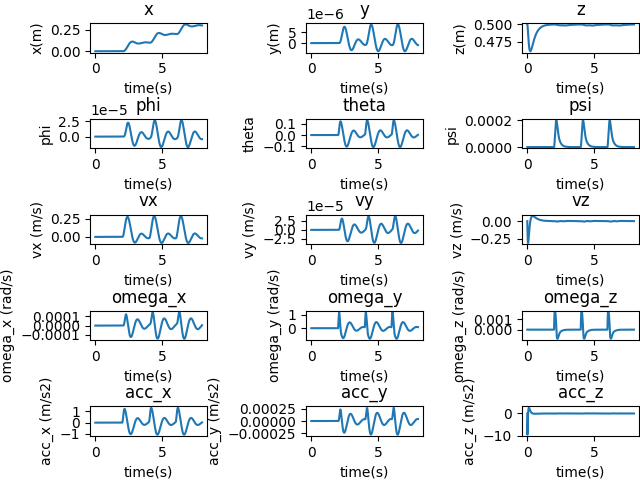
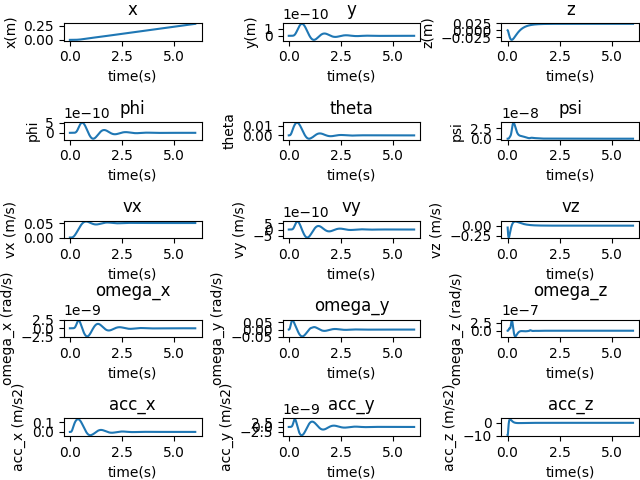
cleanup required

diff --git a/main_q.py b/main_q.py
@@ -16,8 +16,9 @@ def execute(params : dict, stateManager : StateManager = None):
 
     actual_desired_state_matrix = []
     actual_state_matrix = []
-
-    drone = Drone(params)
+    initState = np.zeros((16,))
+    # initState[2] = 0.5
+    drone = Drone(params, initState =initState)
     controller = Controller(params)
 
     i = 0
@@ -26,14 +27,13 @@ def execute(params : dict, stateManager : StateManager = None):
     times = []
 
     stateManager.setNextState(t, drone.state)
+    
 
     while not stateManager.isComplete():
 
         i += 1
         t += dt
         
-
-
         desired_state_dic = stateManager.getDesiredState(t, drone.state)
 
         if stateManager.isComplete():
@@ -46,6 +46,10 @@ def execute(params : dict, stateManager : StateManager = None):
             "omega":drone.state[9:12].squeeze(),
             "rpm":drone.state[12:16].squeeze()
         }
+
+        # print(current_state_dic)
+        # if i == 2:
+        #     exit()
         
 
         F_desired, desired_state_dic['acc'] = controller.position_controller(current_state_dic, desired_state_dic)
@@ -53,12 +57,12 @@ def execute(params : dict, stateManager : StateManager = None):
 
         M_desired = controller.attitude_controller(current_state_dic,desired_state_dic)
         # print(M_desired)
-        sol = drone.step(F_desired,M_desired, current_state_dic)
+        sol = drone.step(F_desired, M_desired)
 
         # we need to set the accelerations ourselves because we are setting our snap to be zero.
         # use first order approximations
 
-        state_list = sol.y[:,-1]
+        state_list = sol.y[:,-1].copy()
         acc = (sol.y[3:6,-1]-sol.y[3:6,-2])/(sol.t[-1]-sol.t[-2])
 
         state_list[12:15] = acc
@@ -70,18 +74,18 @@ def execute(params : dict, stateManager : StateManager = None):
         temp[6:9] = desired_state_dic["rot"].reshape(-1, 1)
         temp[9:12] = desired_state_dic["omega"].reshape(-1, 1)
         temp[12:15] = desired_state_dic["acc"].reshape(-1, 1)
+        
         actual_desired_state_matrix.append(temp.copy())
 
         times.append(t)
 
-        if stateManager.state != State.TAKEOFF:
-            break
+        # if stateManager.state != State.TAKEOFF:
+        #     break
 
-        
+    print("Statemanager isComplete", stateManager.isComplete())
         
     actual_desired_state_matrix = np.array(actual_desired_state_matrix).T.squeeze()
     actual_state_matrix = np.array(actual_state_matrix).T.squeeze()
-    print(actual_state_matrix.shape, actual_desired_state_matrix.shape)
     time_vec = np.array(times)
     return actual_state_matrix, actual_desired_state_matrix, time_vec
 

diff --git a/stateManager.py b/stateManager.py
@@ -3,7 +3,7 @@ from utils import State
 
 from traj import TrajectoryGenerator
 
-
+import numpy as np
 
 
 class StateManager():
@@ -16,7 +16,7 @@ class StateManager():
         self.planner : TrajectoryGenerator = TrajectoryGenerator(params)
 
     def isComplete(self):
-        if self.state == State.COMPLETE or self.planner.complete:
+        if self.state == State.COMPLETE:
             self.state = State.COMPLETE
             return True
         return False
@@ -24,43 +24,37 @@ class StateManager():
 
     def setNextState(self, t, curstatevec):
 
-        self.prevstate = self.state
+        
+        if self.question  == 1:
+            if self.state == State.IDLE:
+                self.state = State.HOVER1
+            elif self.state == State.HOVER1:
+                self.state = State.COMPLETE
+
         if self.question in [2, 3]:
-            if self.state == State.IDLE and self.prevstate == State.IDLE:
+            if self.state == State.IDLE:
                 self.state = State.TRACK
             elif self.state == State.TRACK:
                 self.state = State.COMPLETE
 
-            return
-
-         
         if self.question in [4]:
-            
+            self.prevstate = self.state
+            self.state = State((self.state.value + 1) % 7)
 
-            if(self.state == State.IDLE):
-                self.state = State.TAKEOFF
-            elif self.state == State.TAKEOFF:
-                self.state = State.HOVER
-            elif self.state == State.HOVER and self.prevstate == State.TAKEOFF:
-                self.state = State.TRACK
-            elif self.state == State.TRACK:
-                self.state = State.HOVER
-            elif self.state == State.HOVER and self.prevstate == State.TRACK:
-                self.state = State.LAND
-            elif self.state ==  State.LAND:
-                self.state = State.IDLE
+        
         print("State Change |", self.prevstate, '->', self.state)
         self.planner.planTrajectory(t, curstatevec, self.state, )
 
 
 
     def getDesiredState(self, t, curstatevec):
-
-        a = self.planner.getDesiredState(t)
-        if  a is None:
-            self.setNextState( t, curstatevec)
-            self.planner.planTrajectory(t, curstatevec, self.state, )
+        if np.linalg.norm(self.planner.trajectory[-1][:3] - curstatevec[:3]) < 0.05:
+            print("REACHED")
+            self.setNextState(t, curstatevec)
+        a = None        
+        if not self.isComplete():
             a = self.planner.getDesiredState(t)
+            
 
         return a
 

diff --git a/traj.py b/traj.py
@@ -16,10 +16,10 @@ class TrajectoryGenerator():
         self.complete = False
 
     def getDesiredState(self, t):
-        ind = int((t - self.starttime)/self.dt)
-        if ind > len(self.trajectory) - 1:
-            self.complete = True
-            return None
+        ind = max(0, min(len(self.trajectory) - 1, int((t - self.starttime)/self.dt)))
+        # if ind > len(self.trajectory) - 1:
+        #     self.complete = True
+        #     return None
 
         traj = self.trajectory[ind]
         desired_state_dic = {
@@ -43,6 +43,7 @@ class TrajectoryGenerator():
 
         Stores generated trajectories in class.
         '''
+
         print("Planning Trajectory for", state,)
         self.complete = False
 
@@ -53,15 +54,14 @@ class TrajectoryGenerator():
         desstatevec[:3] = curstatevec[:3]
 
         desstatevec[8] = curstatevec[8]
-        print(desstatevec)
 
         if state == State.IDLE:
             for i in np.arange(0, 2, self.dt):
                 self.trajectory.append(desstatevec.copy())
                 self.times.append(curtime + i)
 
-        elif state == State.HOVER:
-            for i in np.arange(0, 2, self.dt):
+        elif state in [State.HOVER1, State.HOVER2]:
+            for i in np.arange(0, 1, self.dt):
                 self.trajectory.append(desstatevec.copy())
                 self.times.append(curtime + i)
 
@@ -70,6 +70,7 @@ class TrajectoryGenerator():
             for i in np.arange(0, duration, self.dt):
                 vec = desstatevec.copy() 
                 vec[2] = i/duration
+                # vec[5] = 1.0/duration
                 self.trajectory.append(vec.copy())
                 self.times.append(curtime + i)
 
@@ -78,6 +79,7 @@ class TrajectoryGenerator():
             for i in np.arange(0, duration, self.dt):
                 vec = desstatevec.copy() 
                 vec[0] = 0.3 * (i/duration)
+
                 vec[5] = 0.3/duration
                 self.trajectory.append(vec.copy())
                 self.times.append(curtime + i)
@@ -94,7 +96,7 @@ class TrajectoryGenerator():
 
         self.trajectory = np.array(self.trajectory).squeeze()
         self.times = np.array(self.times)
+        self.starttime = curtime
 
-        print(self.trajectory.shape, self.times.shape)
 
         # height of 15 for: [x, y, z, xdot, ydot, zdot, phi, theta, psi, phidot, thetadot, psidot, xacc, yacc, zacc]

diff --git a/drone.py b/drone.py
@@ -4,9 +4,9 @@ from scipy.integrate import solve_ivp
 
 class Drone:
 
-    def __init__(self, params):
+    def __init__(self, params, initState = np.zeros((16,))):
         self.params = params
-        self.state = np.zeros((16,))
+        self.state = initState
 
     @staticmethod
     def dynamics(t,state,params,F_actual,M_actual,rpm_motor_dot):
@@ -82,7 +82,7 @@ class Drone:
         return statedot
 
     
-    def motor_model(self, F,M, current_state_dic):
+    def motor_model(self, F,M):
 
         '''
         Input parameters"
@@ -102,7 +102,7 @@ class Drone:
         rpm_dot: Derivative of the RPM
         '''
         params = self.params
-        rpm = current_state_dic['rpm'].squeeze()
+        rpm = self.state[12:]
         ct = params['thrust_coefficient']
         cq = params['moment_scale']
         d = params['arm_length']
@@ -118,28 +118,24 @@ class Drone:
             ]
         )
         
-        print(F[2], M)
         rpmd = np.sqrt(np.dot(np.linalg.inv(A), np.array([F[2], M[0], M[1], M[2]])))
         rpmd = np.clip(rpmd, params['rpm_min'], params['rpm_max'])
-
         rpm = np.clip(rpm,  params['rpm_min'], params['rpm_max'])
         vals = np.dot(A, np.square(rpm))
         rpm_dot = params['motor_constant'] *(rpmd - rpm)
-        self.state[12:] = rpm
         F_motor = vals[0]
         M_motor = vals[1:]
 
         return F_motor, M_motor, rpm_dot
 
 
-    def step(self, F_desired, M_desired, current_state_dic ):
-        current_state = self.state
-        [F_actual,M_actual,rpm_motor_dot] = self.motor_model(F_desired,M_desired,current_state_dic)
+    def step(self, F_desired, M_desired ):
+        [F_actual,M_actual,rpm_motor_dot] = self.motor_model(F_desired,M_desired)
 
         sol = solve_ivp(
             self.dynamics, 
             (0, self.params['dt']), 
-            current_state,
+            self.state,
             args=(self.params,F_actual,M_actual,rpm_motor_dot),)
         self.state = sol.y[:,-1]
 

diff --git a/plot.py b/plot.py
@@ -175,7 +175,7 @@ def plot_position_3d(state, state_des, params):
 
     ax.axes.set_xlim3d(left=-.5, right=.5)
     ax.axes.set_ylim3d(bottom=-.5, top=.5)
-    ax.axes.set_zlim3d(bottom=0, top=.5)
+    ax.axes.set_zlim3d(bottom=0, top=1.5)
 
     filename = ''
     for i in range(3):

diff --git a/utils.py b/utils.py
@@ -5,7 +5,8 @@ class State(Enum):
 
     COMPLETE = 0
     IDLE = 1
-    TRACK = 2
-    TAKEOFF = 3
-    HOVER = 4
-    LAND = 5
+    TAKEOFF = 2
+    HOVER1 = 3
+    TRACK = 4
+    HOVER2 = 5
+    LAND = 6
